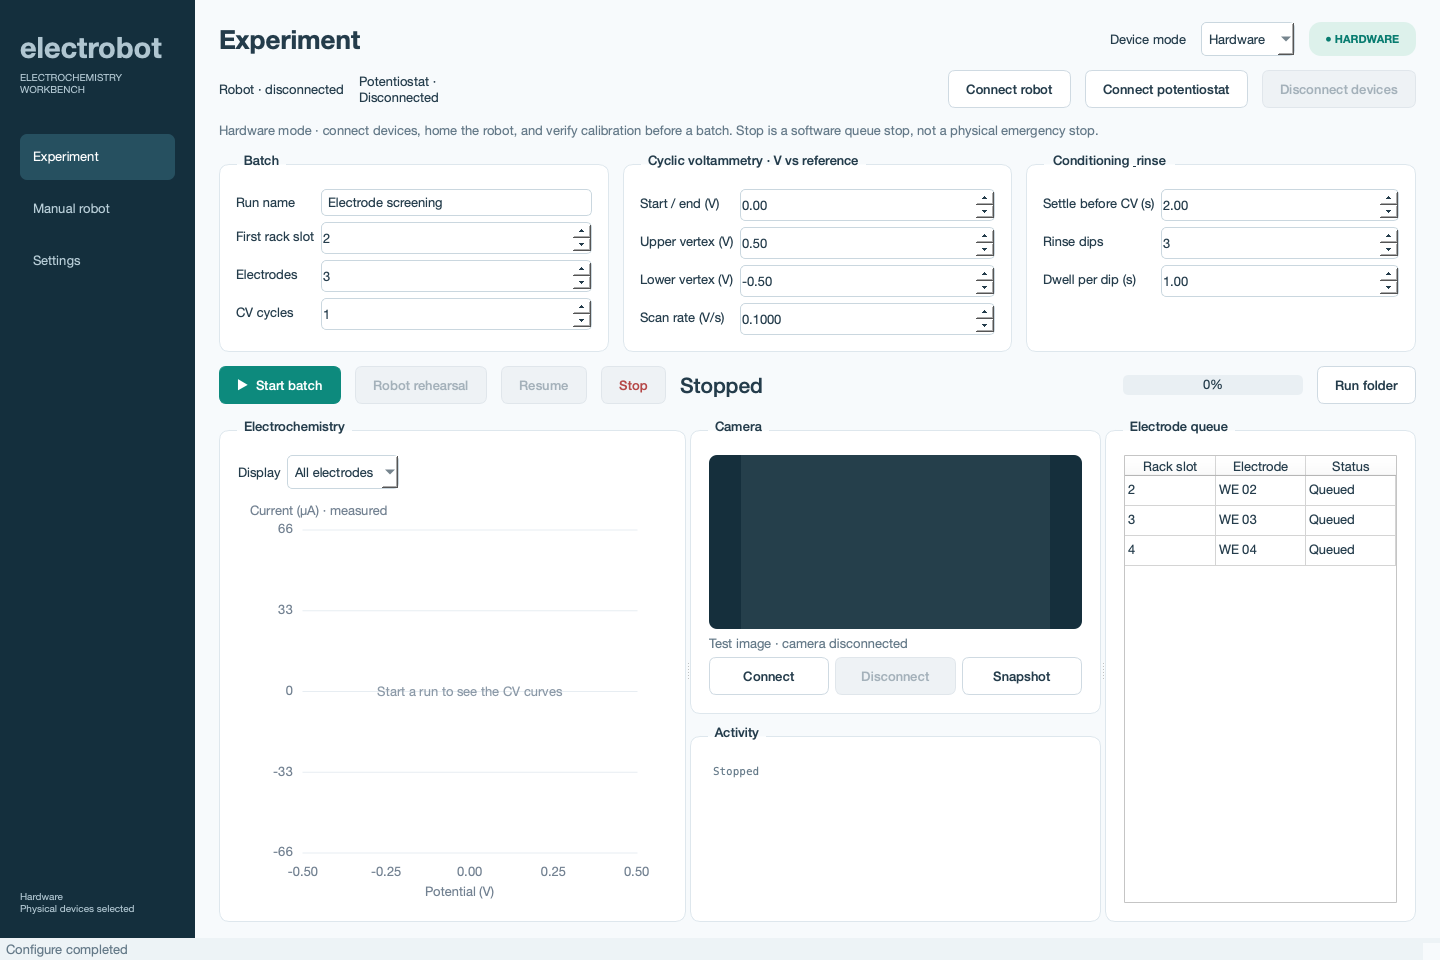
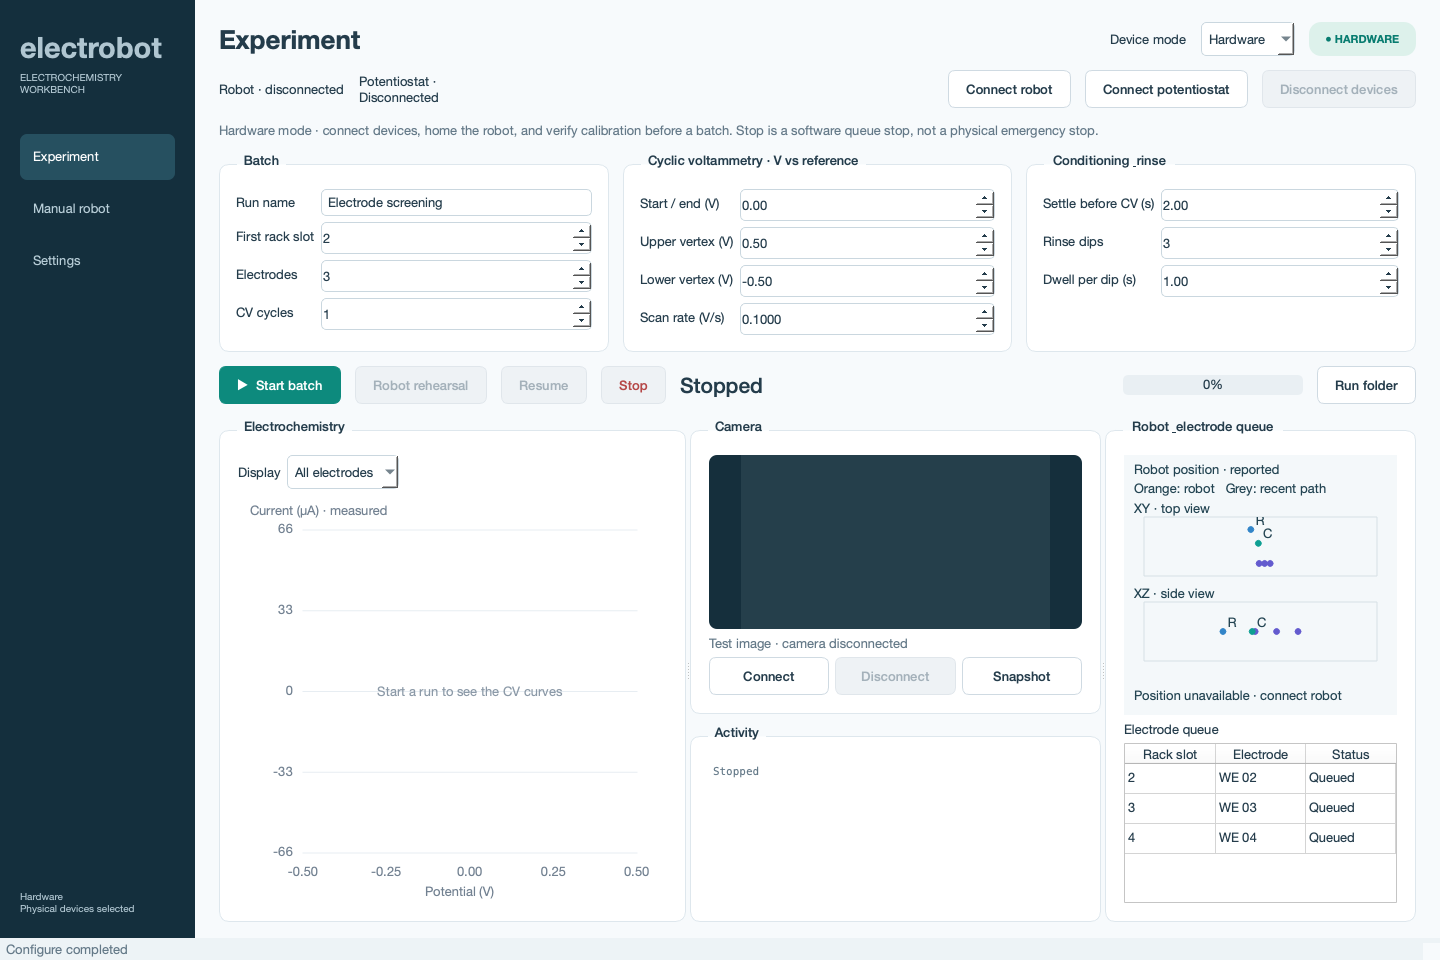
Add live robot tracking during movements on experiment and manual pages

Changed region(s): [[0.7812, 0.4375, 0.9688, 0.625], [0.7812, 0.7188, 0.9688, 0.875], [0.8438, 0.625, 0.9062, 0.6562]]

diff --git a/electrobot/app.py b/electrobot/app.py
@@ -10,7 +10,7 @@ from PySide6.QtWidgets import (QApplication,QMainWindow,QWidget,QLabel,QPushButt
     QPlainTextEdit,QFileDialog,QMessageBox,QSplitter,QTabWidget,QTableWidget,QTableWidgetItem,
     QHeaderView,QAbstractItemView,QSizePolicy)
 from .config import Settings
-from .calibration_widgets import CalibrationDiagram
+from .calibration_widgets import CalibrationDiagram,RobotTracker
 from .worker import DeviceWorker
 from .camera import CameraWorker
 from .widgets import Plot,CapSketch,CameraPreview,STYLE,button,card
@@ -132,7 +132,7 @@ class Window(QMainWindow):
         try: s.validate()
         except ValueError as exc:
             if not self.validation_issues: self.validation_issues=[((),str(exc))]
-        for diagram in (self.calibration_diagram,self.workspace_diagram): diagram.set_settings(s)
+        for diagram in (self.calibration_diagram,self.workspace_diagram,self.experiment_tracker,self.manual_tracker): diagram.set_settings(s)
         bad={key for keys,_ in self.validation_issues for key in keys}
         for key,f in self.fields.items():
             f.setStyleSheet('border: 2px solid #c34848;' if key in bad else '')
@@ -215,17 +215,23 @@ class Window(QMainWindow):
         cl.addLayout(buttons); rl.addWidget(camera,3)
         activity,al=card('Activity'); self.log=QPlainTextEdit(); self.log.setReadOnly(True); self.log.setMaximumBlockCount(2000); self.log.setMinimumHeight(60); al.addWidget(self.log); rl.addWidget(activity,2)
         self.main_split.addWidget(right)
-        electrodes,el=card('Electrode queue')
+        electrodes,el=card('Robot & electrode queue')
+        self.experiment_tracker=RobotTracker(); el.addWidget(self.experiment_tracker,1)
+        el.addWidget(QLabel('Electrode queue'))
         self.queue_table=QTableWidget(0,3); self.queue_table.setHorizontalHeaderLabels(['Rack slot','Electrode','Status']); self.queue_table.verticalHeader().hide()
         self.queue_table.horizontalHeader().setSectionResizeMode(QHeaderView.ResizeMode.Stretch); self.queue_table.setEditTriggers(QAbstractItemView.EditTrigger.NoEditTriggers)
-        self.queue_table.setMinimumSize(240,150); el.addWidget(self.queue_table)
+        self.queue_table.setMinimumSize(240,60); el.addWidget(self.queue_table)
         self.main_split.addWidget(electrodes)
         self.main_split.setSizes([432,380,288])
         for index,stretch in enumerate((39,35,26)): self.main_split.setStretchFactor(index,stretch)
         l.addWidget(self.main_split,1)
         self.camera_buttons_update()
     def make_manual(self):
-        w,l=self.page(); l.addWidget(self.note('Manual commands use the selected device mode. Home after connection before hardware movement. Stop halts the queue and requires homing again.'))
+        w,outer=self.page(); split=QSplitter(Qt.Orientation.Horizontal)
+        controls=QWidget(); l=QVBoxLayout(controls); l.setContentsMargins(0,0,0,0); l.setSpacing(10)
+        split.addWidget(controls); self.manual_tracker=RobotTracker(); split.addWidget(self.manual_tracker)
+        split.setSizes([680,420]); outer.addWidget(split,1)
+        l.addWidget(self.note('Manual commands use the selected device mode. Home after connection before hardware movement. Stop halts the queue and requires homing again.'))
         actions=QHBoxLayout(); self.manual_buttons=[]; self.motion_buttons=[]
         for text,command in (('Read pose','pose'),('Home robot','home')):
             b=button(text,lambda checked=False,c=command:self.submit(c)); actions.addWidget(b); self.manual_buttons.append(b)
@@ -313,13 +319,18 @@ class Window(QMainWindow):
             return
         self.submit('disconnect')
     def change_mode(self):
-        self.current_pose=None; self.device_state={'robot':False,'potentiostat':False,'homed':False,'holding':False}
+        self.current_pose=None
+        for diagram in (self.calibration_diagram,self.workspace_diagram,self.experiment_tracker,self.manual_tracker): diagram.set_pose(None)
+        self.device_state={'robot':False,'potentiostat':False,'homed':False,'holding':False}
         hardware=self.mode.currentData()=='hardware'; self.plot.synthetic=not hardware; self.plot.clear()
         self.badge.setText('● HARDWARE' if hardware else '● SIMULATION'); self.sidebar_status.setText('Hardware\nPhysical devices selected' if hardware else 'Simulation\nNo physical commands')
         self.mode_note.setText('Hardware mode · connect devices, home the robot, and verify calibration before a batch. Stop is a software queue stop, not a physical emergency stop.' if hardware else 'Simulation mode · synthetic CV data. Connect a real camera independently if desired.')
         self.submit('configure')
     def on_devices(self,state):
         self.device_state=state
+        if not state['robot']:
+            self.current_pose=None
+            for diagram in (self.calibration_diagram,self.workspace_diagram,self.experiment_tracker,self.manual_tracker): diagram.set_pose(None)
         hardware=self.mode.currentData()=='hardware'
         self.robot_status.setText('Robot · '+('connected' if state['robot'] else 'disconnected')+(' · homed' if state['homed'] else ''))
         self.pot_status.setText('Potentiostat · '+state.get('potentiostat_name','Disconnected'))
@@ -359,7 +370,9 @@ class Window(QMainWindow):
             if s.mode=='hardware' and not self.device_state.get('homed'): raise ValueError('Home the robot on Manual robot before a hardware batch')
             if self.device_state.get('holding'): raise ValueError('Release or secure the currently held electrode before starting a new batch')
         except Exception as exc: QMessageBox.warning(self,'Batch not ready',str(exc)); return
-        self.s=s; self.plot.clear(); self.plot.synthetic=s.mode=='simulation'; self.plot_selection.clear(); self.plot_selection.addItem('All electrodes',None)
+        self.s=s
+        for tracker in (self.experiment_tracker,self.manual_tracker): tracker.clear_trail()
+        self.plot.clear(); self.plot.synthetic=s.mode=='simulation'; self.plot_selection.clear(); self.plot_selection.addItem('All electrodes',None)
         self.queue_table.setRowCount(s.electrodes)
         for row,index in enumerate(range(s.first_electrode,s.first_electrode+s.electrodes)):
             self.plot_selection.addItem(f'Electrode {index}',index)
@@ -390,7 +403,13 @@ class Window(QMainWindow):
             self.apply_compact_rehearsal(self.current_pose)
         self.refresh_controls()
     def on_pose(self,pose):
-        self.current_pose=dict(pose); self.pose_label.setText('    '.join(f'{k.upper()} {pose[k]:.2f}' for k in ('x','y','z','r')))
+        if not all(k in pose for k in ('x','y','z','r')):
+            self.current_pose=None; self.pose_label.setText('Position unavailable')
+            for diagram in (self.calibration_diagram,self.workspace_diagram,self.experiment_tracker,self.manual_tracker): diagram.set_pose(None)
+            return
+        self.current_pose=dict(pose)
+        for diagram in (self.calibration_diagram,self.workspace_diagram,self.experiment_tracker,self.manual_tracker): diagram.set_pose(pose)
+        self.pose_label.setText('    '.join(f'{k.upper()} {pose[k]:.2f}' for k in ('x','y','z','r')))
     def pause_run(self):
         if not self.running_batch or self.mode.currentData()!='simulation': return
         self.paused=not self.paused

diff --git a/electrobot/calibration_widgets.py b/electrobot/calibration_widgets.py
@@ -18,9 +18,10 @@ def rack_points(s):
 
 class CalibrationDiagram(QWidget):
     def __init__(self,workspace=False):
-        super().__init__(); self.workspace=workspace; self.settings=None
+        super().__init__(); self.workspace=workspace; self.settings=None; self.pose=None
         self.setMinimumHeight(410); self.setMinimumWidth(450)
     def set_settings(self,s): self.settings=s; self.update()
+    def set_pose(self,pose): self.pose=dict(pose) if pose else None; self.update()
     def paintEvent(self,event):
         if self.settings is None: return
         s=self.settings; p=QPainter(self); p.setRenderHint(QPainter.RenderHint.Antialiasing)
@@ -44,6 +45,7 @@ class CalibrationDiagram(QWidget):
         if self.workspace:
             xs += [-s.workspace_radius_max,s.workspace_radius_max]
             ys += [-s.workspace_radius_max,s.workspace_radius_max]
+        if self.pose: xs.append(self.pose['x']); ys.append(self.pose['y'])
         xlo,xhi=min(xs),max(xs); ylo,yhi=min(ys),max(ys)
         scale=min(390/max(1,xhi-xlo),255/max(1,yhi-ylo))*.92
         xc,yc=(xlo+xhi)/2,(ylo+yhi)/2
@@ -63,6 +65,8 @@ class CalibrationDiagram(QWidget):
             pos=xy(x,y); dot(pos.x(),pos.y(),'#635bce' if selected else '#aebdca',2.5,selected)
         for x,y,color,label in ((s.cell_x,s.cell_y,'#0e9f92','Cell'),(s.rinse_x,s.rinse_y,'#3285c8','Rinse')):
             pos=xy(x,y); dot(pos.x(),pos.y(),color,5); text(pos.x()+8,pos.y()-8,label)
+        if self.pose:
+            pos=xy(self.pose['x'],self.pose['y']); dot(pos.x(),pos.y(),'#d97706',7,False); text(pos.x()+8,pos.y()+17,'Robot')
         if self.workspace:
             text(20,334,f'X [{s.workspace_x_min:g}, {s.workspace_x_max:g}]   Y [{s.workspace_y_min:g}, {s.workspace_y_max:g}] mm')
             text(20,356,f'Radius [{s.workspace_radius_min:g}, {s.workspace_radius_max:g}] mm from base')
@@ -74,15 +78,73 @@ class CalibrationDiagram(QWidget):
             text(20,378,f'Cell ({s.cell_x:g}, {s.cell_y:g}); rinse ({s.rinse_x:g}, {s.rinse_y:g}) mm')
         # Side view: shared absolute-Z scale. Station columns are categorical;
         # their XY positions are represented in the top view.
-        zlo=min(s.workspace_z_min,s.workspace_z_max,s.rack_z,s.cell_z,s.rinse_z,s.safe_z)
-        zhi=max(s.workspace_z_min,s.workspace_z_max,s.rack_z,s.cell_z,s.rinse_z,s.safe_z)
+        live_z=self.pose['z'] if self.pose else s.safe_z
+        zlo=min(s.workspace_z_min,s.workspace_z_max,s.rack_z,s.cell_z,s.rinse_z,s.safe_z,live_z)
+        zhi=max(s.workspace_z_min,s.workspace_z_max,s.rack_z,s.cell_z,s.rinse_z,s.safe_z,live_z)
         def zy(z): return 300-(z-zlo)/max(1,zhi-zlo)*235
         line(540,zy(zlo),540,zy(zhi),'#8198a5')
         for z,name,color in ((s.workspace_z_max,'Z max','#635bce'),(s.workspace_z_min,'Z min','#635bce'),(s.safe_z,'Travel Z','#0e9f92')):
             y=zy(z); line(540,y,940,y,color,name=='Travel Z'); text(550,y-5,f'{name} {z:g} mm')
         for x,z,label in ((635,s.rack_z,'Rack grip'),(760,s.cell_z,'Cell seat'),(885,s.rinse_z,'Rinse dip')):
             line(x,zy(s.safe_z),x,zy(z)); dot(x,zy(z)); text(x-37,zy(z)+18,label); text(x-30,zy(z)+35,f'Z={z:g}')
+        if self.pose:
+            y=zy(live_z); line(540,y,940,y,'#d97706',True); text(700,y-6,f'Robot Z {live_z:g}')
         text(510,356,f'Tool R {s.tool_r:g}° about vertical Z; no tilt')
         text(510,378,'Lift → transfer at Travel Z → lower')
         text(20,400,'Distances plotted to scale; labels may overlap for nearby stations. Tool coordinates, not electrode tip depth. No collision model.')
+        p.end()
+
+
+class RobotTracker(QWidget):
+    """Compact XY/XZ live tool feedback, shared by experiment and manual pages."""
+    def __init__(self):
+        super().__init__(); self.settings=None; self.pose=None; self.trail=[]
+        self.setMinimumSize(240,260)
+    def set_settings(self,s): self.settings=s; self.update()
+    def set_pose(self,pose):
+        self.pose=dict(pose) if pose else None
+        if pose and (not self.trail or self.trail[-1]!=self.pose):
+            self.trail.append(dict(pose)); self.trail=self.trail[-150:]
+        if not pose: self.trail=[]
+        self.update()
+    def clear_trail(self): self.trail=[]; self.update()
+    def paintEvent(self,event):
+        if self.settings is None: return
+        s=self.settings; p=QPainter(self); p.setRenderHint(QPainter.RenderHint.Antialiasing)
+        w,h=self.width(),self.height(); p.fillRect(self.rect(),QColor('#f4f8fa'))
+        def text(x,y,t): p.setPen(QColor('#234452')); p.drawText(QPointF(x,y),t)
+        text(10,19,'Robot position · '+('simulated' if s.mode=='simulation' else 'reported'))
+        text(10,38,'Orange: robot   Grey: recent path')
+        if self.pose:
+            text(10,h-31,f"X {self.pose['x']:.1f}  Y {self.pose['y']:.1f} mm")
+            text(10,h-12,f"Z {self.pose['z']:.1f} mm  R {self.pose['r']:.1f}°")
+        else: text(10,h-15,'Position unavailable · connect robot')
+        stations=[(x,y,z,'#635bce','') for _,x,y,z,selected in rack_points(s) if selected]
+        stations.extend(((s.cell_x,s.cell_y,s.cell_z,'#0e9f92','C'),(s.rinse_x,s.rinse_y,s.rinse_z,'#3285c8','R')))
+        poses=self.trail+([self.pose] if self.pose else [])
+        panel_height=max(28,(h-142)/2)
+        for n,axis in enumerate(('y','z')):
+            r=QRectF(20,62+n*(panel_height+26),w-40,panel_height)
+            text(10,r.top()-4,'XY · top view' if axis=='y' else 'XZ · side view')
+            coords=[(x,y if axis=='y' else z) for x,y,z,_,_ in stations]+[(v['x'],v[axis]) for v in poses]
+            if not coords: continue
+            xmin,xmax=min(v[0] for v in coords),max(v[0] for v in coords)
+            ymin,ymax=min(v[1] for v in coords),max(v[1] for v in coords)
+            spanx=max(40,xmax-xmin+20); spany=max(40,ymax-ymin+20)
+            scale=min(max(1,r.width()-24)/spanx,max(1,r.height()-20)/spany)
+            def xy(x,y): return QPointF(r.center().x()+(x-(xmin+xmax)/2)*scale,r.center().y()-(y-(ymin+ymax)/2)*scale)
+            p.setPen(QPen(QColor('#d6e0e5'),1)); p.drawRect(r)
+            p.save(); p.setClipRect(r)
+            if axis=='z':
+                p.setPen(QPen(QColor('#0e9f92'),1,Qt.PenStyle.DashLine))
+                p.drawLine(xy(xmin,s.safe_z),xy(xmax,s.safe_z))
+            p.setPen(QPen(QColor('#b4c1cb'),1))
+            for a,b in zip(poses,poses[1:]): p.drawLine(xy(a['x'],a[axis]),xy(b['x'],b[axis]))
+            for x,y,z,color,label in stations:
+                pos=xy(x,y if axis=='y' else z); p.setPen(QPen(QColor(color),1)); p.setBrush(QColor(color)); p.drawEllipse(pos,3,3)
+                if label: text(pos.x()+5,pos.y()-5,label)
+            if self.pose:
+                pos=xy(self.pose['x'],self.pose[axis]); p.setPen(QPen(QColor('#d97706'),2)); p.setBrush(Qt.BrushStyle.NoBrush)
+                p.drawEllipse(pos,6,6); p.drawLine(pos+QPointF(-9,0),pos+QPointF(9,0)); p.drawLine(pos+QPointF(0,-9),pos+QPointF(0,9))
+            p.restore(); p.setBrush(Qt.BrushStyle.NoBrush)
         p.end()

diff --git a/tests/hardware_ui_smoke.py b/tests/hardware_ui_smoke.py
@@ -23,6 +23,7 @@ with tempfile.TemporaryDirectory() as d,patch.object(worker_module,'DobotRobot',
     w.mode.setCurrentIndex(1); idle()
     assert not w.device_state['robot'] and not w.device_state['potentiostat']
     w.submit('connect_robot'); idle(); assert w.device_state['robot'] and not w.device_state['homed']
+    assert w.experiment_tracker.pose==w.current_pose==w.manual_tracker.pose
     w.submit('home'); idle(); assert w.device_state['homed']
     anchor=dict(w.current_pose)
     moves_before=[c for c in w.worker.robot.arm.calls if isinstance(c,tuple) and c[0]=='move']
@@ -61,6 +62,7 @@ with tempfile.TemporaryDirectory() as d,patch.object(worker_module,'DobotRobot',
     w.close(); app.processEvents(); assert w.isVisible() and w.worker.isRunning()
     w.submit('grip',False); idle(); w.disconnect_devices(); idle()
     assert not w.device_state['robot'] and not w.device_state['potentiostat']
+    assert w.experiment_tracker.pose is None and w.manual_tracker.pose is None
     w.mode.setCurrentIndex(0); idle()
 w.close(); deadline=time.monotonic()+3
 while w.worker.isRunning() and time.monotonic()<deadline: app.processEvents(); time.sleep(.01)

diff --git a/tests/test_drivers.py b/tests/test_drivers.py
@@ -95,6 +95,17 @@ class DriverTests(unittest.TestCase):
                 r.move((210,0,20,0))
             self.assertIn('clear',r.arm.calls)
         finally: timer.join(); r.disconnect()
+    def test_live_pose_published_before_queue_completion(self):
+        r=self.robot(); r.home(); r.arm.pending=True
+        samples=[]
+        def feedback(pose):
+            samples.append(dict(pose)); r.control.cancel.set()
+        r.pose_callback=feedback
+        with patch.dict('sys.modules',{'dobotkit':SimpleNamespace(PTPMode=SimpleNamespace(MOVL_XYZ=2))}),self.assertRaises(Cancelled):
+            r.move((210,0,20,0))
+        self.assertTrue(samples)
+        self.assertTrue(r.arm.pending)
+        r.disconnect()
     def test_palm_mapping_units_cell_off_and_stream(self):
         sdk=FakeSDK(); s=Settings(mode='hardware'); p=PalmSensPotentiostat(s,sdk); p.connect()
         samples=[]

diff --git a/electrobot/engine.py b/electrobot/engine.py
@@ -32,8 +32,12 @@ class SimRobot:
         self.current_pose={'x':200.0,'y':0.0,'z':80.0,'r':0.0}; self.pose_callback=lambda p:None
     def move(self,pose):
         self.s.validate_pose(pose)
-        self.control.wait(.8/self.s.simulation_speed)
-        self.current_pose=dict(zip(('x','y','z','r'),(*pose,self.s.tool_r) if len(pose)==3 else pose)); self.pose_callback(self.current_pose)
+        target=dict(zip(('x','y','z','r'),(*pose,self.s.tool_r) if len(pose)==3 else pose))
+        start=dict(self.current_pose)
+        for step in range(1,11):
+            self.control.wait(.08/self.s.simulation_speed)
+            self.current_pose={k:start[k]+(target[k]-start[k])*step/10 for k in target}
+            self.pose_callback(dict(self.current_pose))
     def grip(self,closed):
         self.control.wait(.4/self.s.simulation_speed); self.holding=closed
 

diff --git a/electrobot/worker.py b/electrobot/worker.py
@@ -48,7 +48,12 @@ class DeviceWorker(QThread):
         self.robot.s=s; self.robot.control=control; self.pot.s=s
     def run(self):
         while True:
-            command,s,payload,control=self.commands.get()
+            try: command,s,payload,control=self.commands.get(timeout=.5)
+            except queue.Empty:
+                if self.mode=='hardware' and self.robot_connected:
+                    try: self.robot.pose()
+                    except Exception: self.pose.emit({})  # Hide unavailable feedback; retry next idle poll.
+                continue
             if command=='shutdown':
                 try: self.close_devices()
                 except Exception as exc: self.completed.emit(command,False,str(exc))

diff --git a/tests/ui_smoke.py b/tests/ui_smoke.py
@@ -26,6 +26,9 @@ for index in range(w.settings_tabs.count()):
     w.settings_tabs.setCurrentIndex(index); app.processEvents()
     w.grab().save(f'cad/ui-settings-{index}.png')
 w.nav.setCurrentRow(1); w.submit('jog',(0,1)); idle(); assert w.current_pose['x']==201
+assert w.experiment_tracker.pose==w.current_pose==w.manual_tracker.pose
+assert any(200<p['x']<201 for p in w.manual_tracker.trail)
+assert w.calibration_diagram.pose==w.current_pose==w.workspace_diagram.pose
 w.submit('grip',True); idle(); assert w.device_state['holding']
 w.submit('grip',False); idle(); assert not w.device_state['holding']
 w.submit('move',(201,-65,15,0)); idle()

diff --git a/electrobot/drivers.py b/electrobot/drivers.py
@@ -38,8 +38,9 @@ class DobotRobot:
         try:
             while time.monotonic()<deadline:
                 self.control.check()
+                pose=self.pose()  # Publish measured feedback while the queue is moving.
                 if self.arm.cmds.current_index()>=index:
-                    pose=self.pose(); reached=True
+                    reached=True
                     if target is not None:
                         xyz_error=math.dist([float(pose[k]) for k in ('x','y','z')],target[:3])
                         rotation_error=abs((float(pose['r'])-target[3]+180)%360-180)

diff --git a/README.md b/README.md
@@ -34,6 +34,8 @@ On the Windows lab computer:
 
 ## Experiment workspace
 
+Live robot tracking appears above the electrode queue on Experiment and beside the controls on Manual robot. Orange markers show current tool position in XY and XZ views; grey lines show recent reported motion, and C/R mark cell/rinse. The diagrams auto-fit the stations and recent positions. XYZ/R values distinguish hardware feedback from simulated positions. Calibration and Workspace diagrams also show the current pose. Hardware moves publish pose feedback during queue execution (about 10 Hz subject to RPC latency), with idle polling every 0.5 s. Simulation interpolates positions. Missing idle feedback or disconnect clears the marker. Tracking reflects reported tool pose, not a camera-verified electrode position or a collision check.
+
 **Robot rehearsal** runs the same pickup → seat/release in cell → retrieve → rinse → return sequence without CV or a required potentiostat connection. It actively opens/closes the gripper, so it can be used with an empty rack for a movement check or with dummy carriers to test handling. Use one electrode initially. The configured settling time is the brief stand-in wait at the cell; CV duration is omitted. Rinse settings and robot speed still apply. Hardware requires connection, explicit homing and verified calibration/fixture flags just like a batch. Stop remains available. The rehearsal follows the current release-in-cell workflow, not the future hold-during-CV design.
 
 For a robot-only rehearsal, disconnect the WE lead from an independently controlled potentiostat. An app-connected potentiostat is commanded cell-off before movement and during cleanup, but is never asked to measure. Rehearsals save settings, events and a summary marked `robot_rehearsal`; they create no electrochemistry CSV or synthetic CV data.
